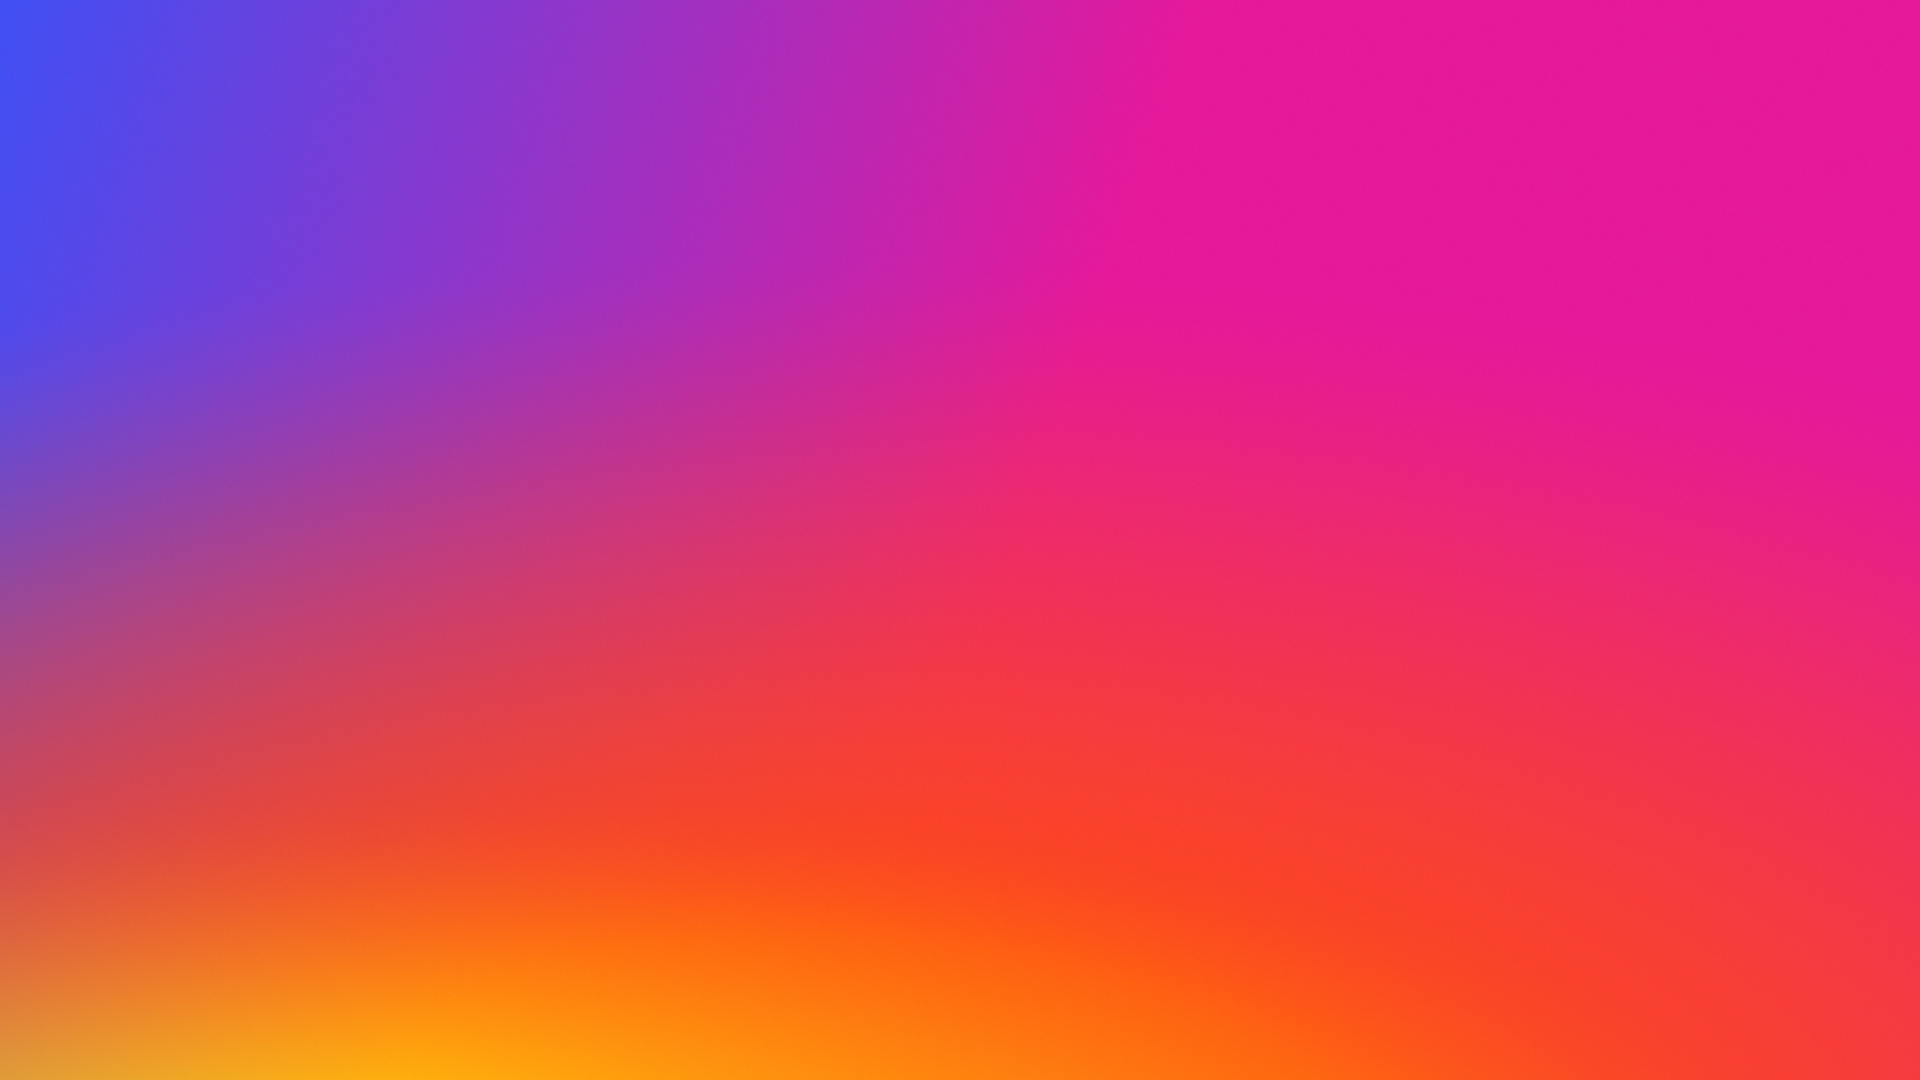
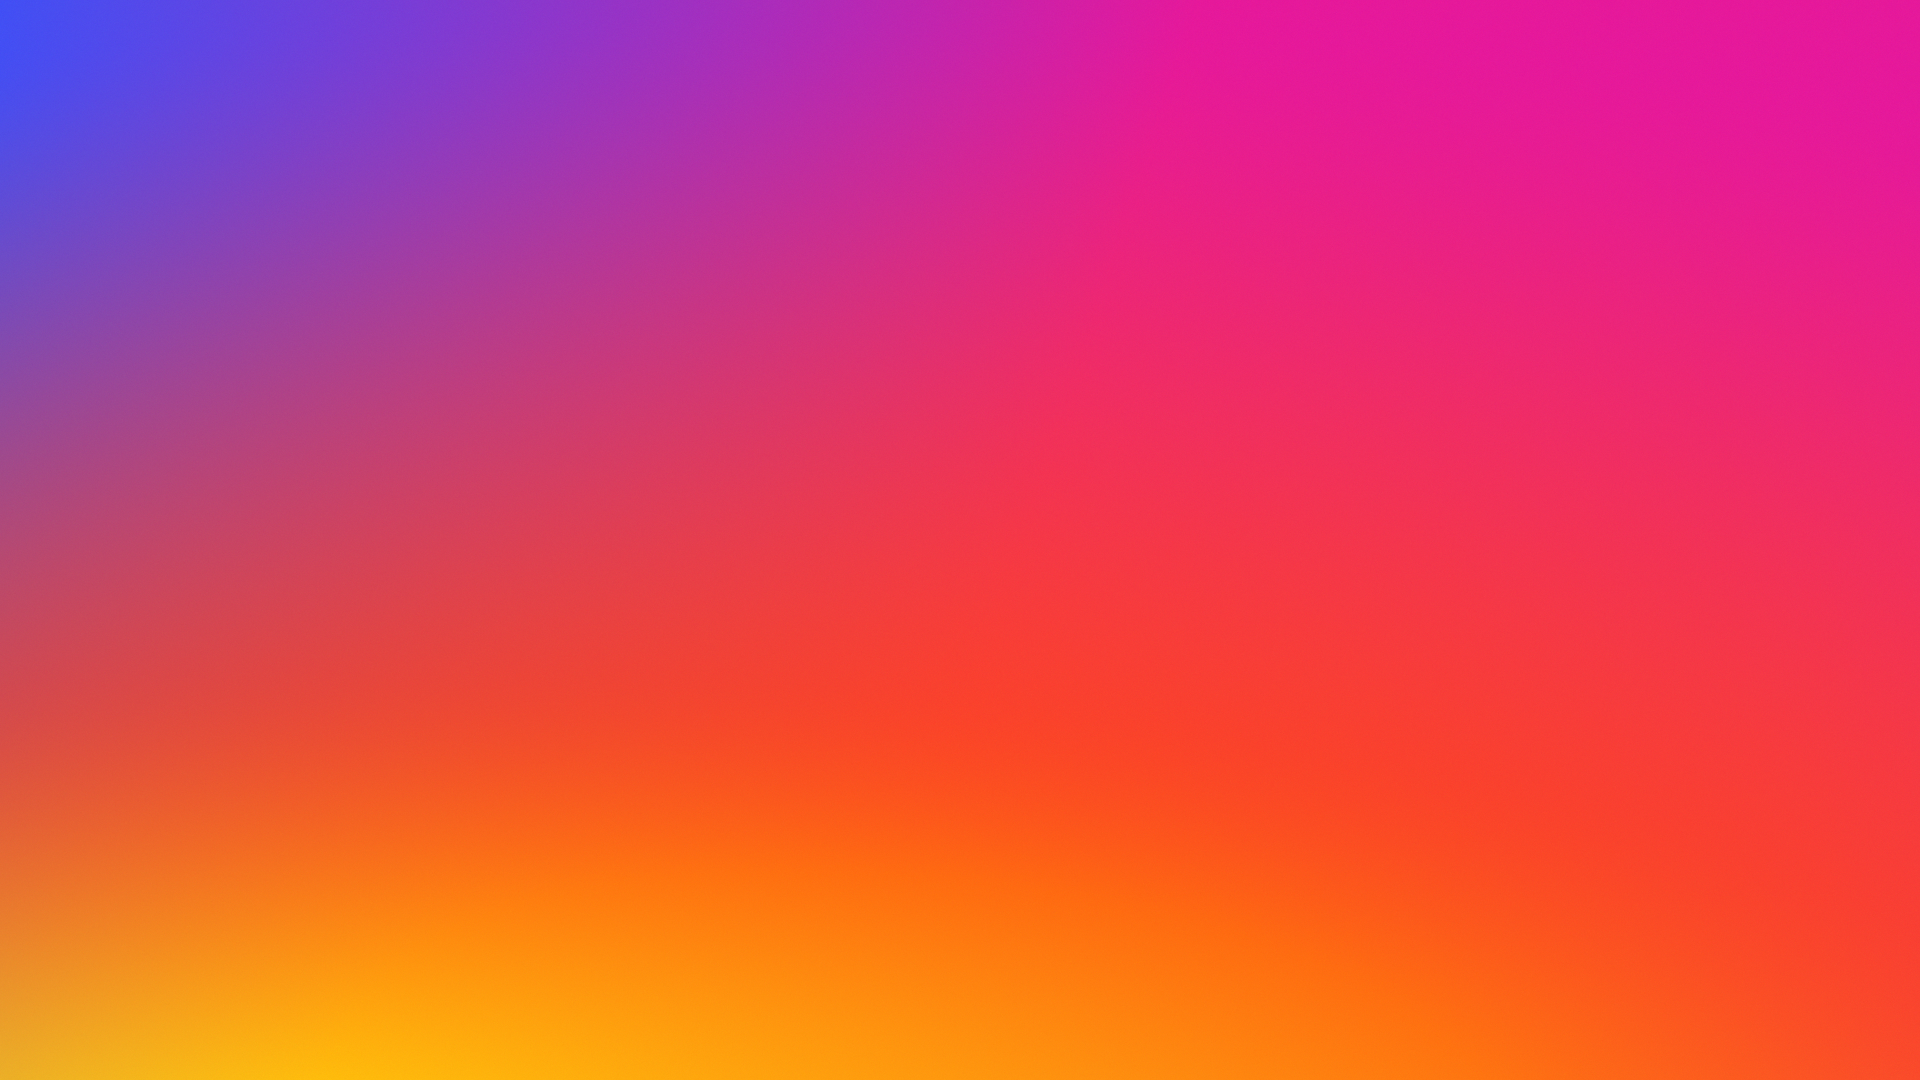
complete app

diff --git a/create_gradient_bg.py b/create_gradient_bg.py
@@ -28,12 +28,15 @@ def generate_insta_bg_final(filename="bg-1.png", width=1920, height=1080, is_jpe
         dist_yellow = np.sqrt(((u - 0.2) * 0.7)**2 + ((v - 1.15) * 1.3)**2)
         dist_yellow_exp = dist_yellow[:, :, np.newaxis]
         
-        w_yellow = np.clip(1.0 - dist_yellow_exp / 0.55, 0, 1)
+        # Tăng vùng lan tỏa màu vàng (từ 0.55 lên 0.7)
+        w_yellow = np.clip(1.0 - dist_yellow_exp / 0.7, 0, 1)
         w_yellow = w_yellow**2 * (3 - 2 * w_yellow)  # Làm mượt Smoothstep
         
         dist_orange = np.sqrt(((u - 0.4) * 0.8)**2 + ((v - 1.1) * 1.1)**2)
         dist_orange_exp = dist_orange[:, :, np.newaxis]
-        w_orange = np.clip(1.0 - dist_orange_exp / 0.95, 0, 1) - w_yellow * 0.8
+        
+        # Tăng vùng lan tỏa màu cam (từ 0.95 lên 1.2)
+        w_orange = np.clip(1.0 - dist_orange_exp / 1.2, 0, 1) - w_yellow * 0.8
         w_orange = np.clip(w_orange, 0, 1)
         w_orange = w_orange**1.5 * (3 - 2 * w_orange)
         
@@ -43,10 +46,12 @@ def generate_insta_bg_final(filename="bg-1.png", width=1920, height=1080, is_jpe
         dist = np.sqrt(((u - 0.35) * aspect)**2 + (v - 1.15)**2)
         dist_exp = dist[:, :, np.newaxis]
         
-        w_yellow = np.clip(1.0 - dist_exp / 0.55, 0, 1)
+        # Tăng vùng lan tỏa màu vàng
+        w_yellow = np.clip(1.0 - dist_exp / 0.7, 0, 1)
         w_yellow = w_yellow**2 * (3 - 2 * w_yellow)
         
-        w_orange = np.clip(1.0 - dist_exp / 0.95, 0, 1) - w_yellow
+        # Tăng vùng lan tỏa màu cam
+        w_orange = np.clip(1.0 - dist_exp / 1.2, 0, 1) - w_yellow
         w_orange = np.clip(w_orange, 0, 1)
         w_orange = w_orange**1.5 * (3 - 2 * w_orange)
         